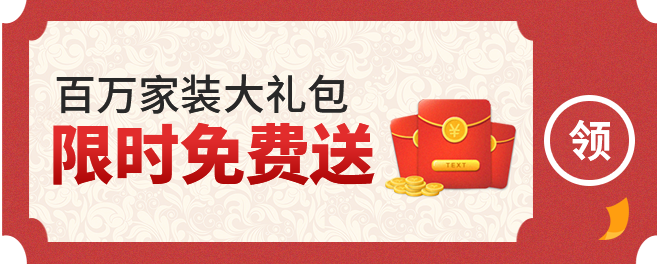
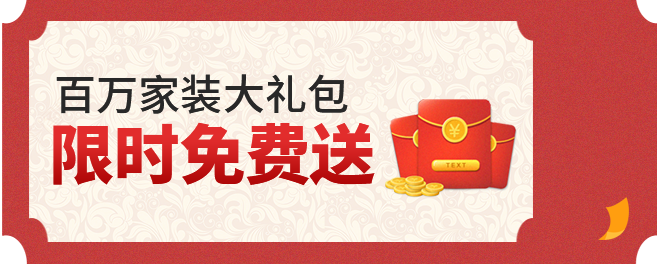
第一次修改

Changed region(s): [[0.8182, 0.3333, 0.9697, 0.7273]]

diff --git a/dist/index.html b/dist/index.html
@@ -22,12 +22,12 @@
         <div class="pai"><img src="img/banner.jpg" alt=""></div>
     </section>
 
-    <section class="activity-join-area container">
+    <section class="activity-join-area container" id="activity">
         <div class="count-down">
             <p>距离活动结束还有</p>
             <div class="time-wrap" id="time" data-date-end="2019/5/13"><span class="day"><i class="o">0</i><i class="t">2</i></span>天<span class="hour"><i class="o">0</i><i class="t">9</i></span>时<span class="minute"><i class="o">1</i><i class="t">0</i></span>分<span class="second"><i class="o">4</i><i class="t">5</i></span>秒</div>
         </div>
-        <div class="activity-form" id="activity">
+        <div class="activity-form">
             <div class="cont">
                 <form>
                     <div class="inp-wrap"><input type="text" class="inp" placeholder="您的姓名"></div>
@@ -41,7 +41,7 @@
     <section class="coupon-area">
         <img src="images/bg1.png" class="coupon-bg" alt="">
         <div class="spe-coupon container"><a href="index.html?#activity" class="activity-btn">
-            <div class="pai"><img src="img/coupon.png" alt=""></div>
+            <div class="pai"><img src="img/coupon.png" alt=""><img src="img/coupon-btn.png" class="receive scale" alt=""></div>
         </a></div>
         <article class="coupon-wrap container">
             <ul class="coupon-list scroll-animation clearfix">
@@ -49,13 +49,13 @@
                     <div class="pai"><img src="img/coupon1.png" alt=""></div>
                 </a></li>
                 <li class="trans transY"><a href="index.html?#activity" class="activity-btn">
-                    <div class="pai"><img src="img/coupon1.png" alt=""></div>
+                    <div class="pai"><img src="img/coupon2.png" alt=""></div>
                 </a></li>
                 <li class="trans transY"><a href="index.html?#activity" class="activity-btn">
-                    <div class="pai"><img src="img/coupon1.png" alt=""></div>
+                    <div class="pai"><img src="img/coupon3.png" alt=""></div>
                 </a></li>
                 <li class="trans transY"><a href="index.html?#activity" class="activity-btn">
-                    <div class="pai"><img src="img/coupon1.png" alt=""></div>
+                    <div class="pai"><img src="img/coupon4.png" alt=""></div>
                 </a></li>
             </ul>
             <div class="freeTx">
@@ -352,7 +352,7 @@
     <section class="footer">
         <div class="clearfix container">
             <div id="top"><span class="sj sj-t"></span>返回顶部</div>
-            <a href="index.html?#activity" class="immediately-buy activity-btn">全屋套餐价，只要<span class="num scale">31999</span><span class="btn-rob scale">抢</span></a>
+            <a href="index.html?#activity" class="immediately-buy activity-btn">百万家装大礼包免费送<span class="btn-rob scale">抢</span></a>
         </div>
     </section>
 </div>
@@ -363,8 +363,9 @@
     executeCountDown(endDate);
 
     function executeCountDown(end) {
-        countDown(end);
-        setTimeout(function(){
+        var value = countDown(end);
+        var timer = setTimeout(function(){
+            if (value <= 0) { clearTimeout(timer); return; }
             executeCountDown(end);
         }, 1000);
     }
@@ -373,10 +374,17 @@
         var date = new Date();
         var total = Date.parse(end) - date.getTime();
 
-        var second = parseInt(total / 1000 % 60);
-        var minute = parseInt(total / 1000 / 60 % 60);
-        var hour = parseInt(total / 1000 / 60 / 60 % 24);
-        var day = parseInt(total / 1000 / 60 / 60 / 24);
+        if (total <= 0) {
+            var second = 0;
+            var minute = 0;
+            var hour = 0;
+            var day = 0;
+        } else {
+            var second = parseInt(total / 1000 % 60);
+            var minute = parseInt(total / 1000 / 60 % 60);
+            var hour = parseInt(total / 1000 / 60 / 60 % 24);
+            var day = parseInt(total / 1000 / 60 / 60 / 24);
+        }
 
         day = day > 9 ? '' + day : '0' + day;
         second = second > 9 ? '' + second : '0' + second;
@@ -391,6 +399,8 @@
         $('#time .minute .t').html(minute.charAt(1));
         $('#time .second .o').html(second.charAt(0));
         $('#time .second .t').html(second.charAt(1));
+
+        return total;
     }
 
     $(function(){
@@ -409,7 +419,9 @@
             }
             ]
         }).on('beforeChange', function(event, slick, currentSlide, nextSlide){
-            $('.setMeal-nav .item').removeClass('act').eq(nextSlide+4).addClass('act');
+            var next = nextSlide + 4;
+            if (w_width < 482) { next = nextSlide + 3; }
+            $('.setMeal-nav .item').removeClass('act').eq(next).addClass('act');
             $('.setMeal-cont').slick('slickGoTo', nextSlide);
         });
         $('.setMeal-cont').slick({

diff --git a/src/html/index.html b/src/html/index.html
@@ -6,12 +6,12 @@
         <div class="pai"><img src="img/banner.jpg" alt=""></div>
     </section>
 
-    <section class="activity-join-area container">
+    <section class="activity-join-area container" id="activity">
         <div class="count-down">
             <p>距离活动结束还有</p>
             <div class="time-wrap" id="time" data-date-end="2019/5/13"><span class="day"><i class="o">0</i><i class="t">2</i></span>天<span class="hour"><i class="o">0</i><i class="t">9</i></span>时<span class="minute"><i class="o">1</i><i class="t">0</i></span>分<span class="second"><i class="o">4</i><i class="t">5</i></span>秒</div>
         </div>
-        <div class="activity-form" id="activity">
+        <div class="activity-form">
             <div class="cont">
                 <form>
                     <div class="inp-wrap"><input type="text" class="inp" placeholder="您的姓名"></div>
@@ -25,7 +25,7 @@
     <section class="coupon-area">
         <img src="images/bg1.png" class="coupon-bg" alt="">
         <div class="spe-coupon container"><a href="index.html?#activity" class="activity-btn">
-            <div class="pai"><img src="img/coupon.png" alt=""></div>
+            <div class="pai"><img src="img/coupon.png" alt=""><img src="img/coupon-btn.png" class="receive scale" alt=""></div>
         </a></div>
         <article class="coupon-wrap container">
             <ul class="coupon-list scroll-animation clearfix">
@@ -33,13 +33,13 @@
                     <div class="pai"><img src="img/coupon1.png" alt=""></div>
                 </a></li>
                 <li class="trans transY"><a href="index.html?#activity" class="activity-btn">
-                    <div class="pai"><img src="img/coupon1.png" alt=""></div>
+                    <div class="pai"><img src="img/coupon2.png" alt=""></div>
                 </a></li>
                 <li class="trans transY"><a href="index.html?#activity" class="activity-btn">
-                    <div class="pai"><img src="img/coupon1.png" alt=""></div>
+                    <div class="pai"><img src="img/coupon3.png" alt=""></div>
                 </a></li>
                 <li class="trans transY"><a href="index.html?#activity" class="activity-btn">
-                    <div class="pai"><img src="img/coupon1.png" alt=""></div>
+                    <div class="pai"><img src="img/coupon4.png" alt=""></div>
                 </a></li>
             </ul>
             <div class="freeTx">
@@ -336,7 +336,7 @@
     <section class="footer">
         <div class="clearfix container">
             <div id="top"><span class="sj sj-t"></span>返回顶部</div>
-            <a href="index.html?#activity" class="immediately-buy activity-btn">全屋套餐价，只要<span class="num scale">31999</span><span class="btn-rob scale">抢</span></a>
+            <a href="index.html?#activity" class="immediately-buy activity-btn">百万家装大礼包免费送<span class="btn-rob scale">抢</span></a>
         </div>
     </section>
 </div>
@@ -347,8 +347,9 @@
     executeCountDown(endDate);
 
     function executeCountDown(end) {
-        countDown(end);
-        setTimeout(function(){
+        var value = countDown(end);
+        var timer = setTimeout(function(){
+            if (value <= 0) { clearTimeout(timer); return; }
             executeCountDown(end);
         }, 1000);
     }
@@ -357,10 +358,17 @@
         var date = new Date();
         var total = Date.parse(end) - date.getTime();
 
-        var second = parseInt(total / 1000 % 60);
-        var minute = parseInt(total / 1000 / 60 % 60);
-        var hour = parseInt(total / 1000 / 60 / 60 % 24);
-        var day = parseInt(total / 1000 / 60 / 60 / 24);
+        if (total <= 0) {
+            var second = 0;
+            var minute = 0;
+            var hour = 0;
+            var day = 0;
+        } else {
+            var second = parseInt(total / 1000 % 60);
+            var minute = parseInt(total / 1000 / 60 % 60);
+            var hour = parseInt(total / 1000 / 60 / 60 % 24);
+            var day = parseInt(total / 1000 / 60 / 60 / 24);
+        }
 
         day = day > 9 ? '' + day : '0' + day;
         second = second > 9 ? '' + second : '0' + second;
@@ -375,6 +383,8 @@
         $('#time .minute .t').html(minute.charAt(1));
         $('#time .second .o').html(second.charAt(0));
         $('#time .second .t').html(second.charAt(1));
+
+        return total;
     }
 
     $(function(){
@@ -393,7 +403,9 @@
             }
             ]
         }).on('beforeChange', function(event, slick, currentSlide, nextSlide){
-            $('.setMeal-nav .item').removeClass('act').eq(nextSlide+4).addClass('act');
+            var next = nextSlide + 4;
+            if (w_width < 482) { next = nextSlide + 3; }
+            $('.setMeal-nav .item').removeClass('act').eq(next).addClass('act');
             $('.setMeal-cont').slick('slickGoTo', nextSlide);
         });
         $('.setMeal-cont').slick({

diff --git a/dist/css/style.css b/dist/css/style.css
@@ -767,6 +767,7 @@ a.pswp__share--download:hover{background:#ddd}
 .coupon-bg{vertical-align:bottom;width:100%}
 .spe-coupon{padding-top:.5rem;padding-bottom:.5rem;background:#fee6cc}
 .spe-coupon .pai{padding-bottom:40.30534%}
+.spe-coupon .receive{width:1.16rem;height:auto;top:50%;margin-top:-.58rem;right:0;left:auto}
 .coupon-wrap{padding-top:.35rem;padding-bottom:.45rem;background:#c33d3c;color:#fff}
 .coupon-wrap .freeTx{font-size:.2rem;padding-left:.2rem}
 .coupon-list{margin-left:-.18rem}

diff --git a/src/css/sass/style.scss b/src/css/sass/style.scss
@@ -99,6 +99,14 @@
     padding-bottom: 0.5rem;
     background: $mc2;
     .pai{ padding-bottom: (264 / 655) * 100%; }
+    .receive{
+        width: 1.16rem;
+        height: auto;
+        top: 50%;
+        margin-top: -0.58rem;
+        right: 0;
+        left: auto;
+    }
 }
 
 .coupon-wrap{

diff --git a/src/css/concat/style.css b/src/css/concat/style.css
@@ -79,6 +79,13 @@
   background: #fee6cc; }
   .spe-coupon .pai {
     padding-bottom: 40.30534%; }
+  .spe-coupon .receive {
+    width: 1.16rem;
+    height: auto;
+    top: 50%;
+    margin-top: -0.58rem;
+    right: 0;
+    left: auto; }
 
 .coupon-wrap {
   padding-top: 0.35rem;
